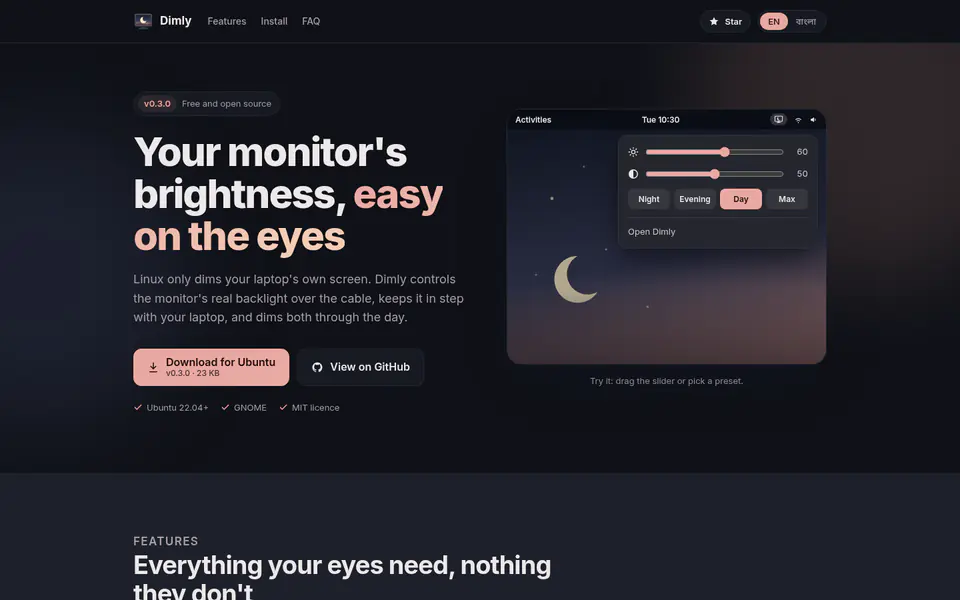
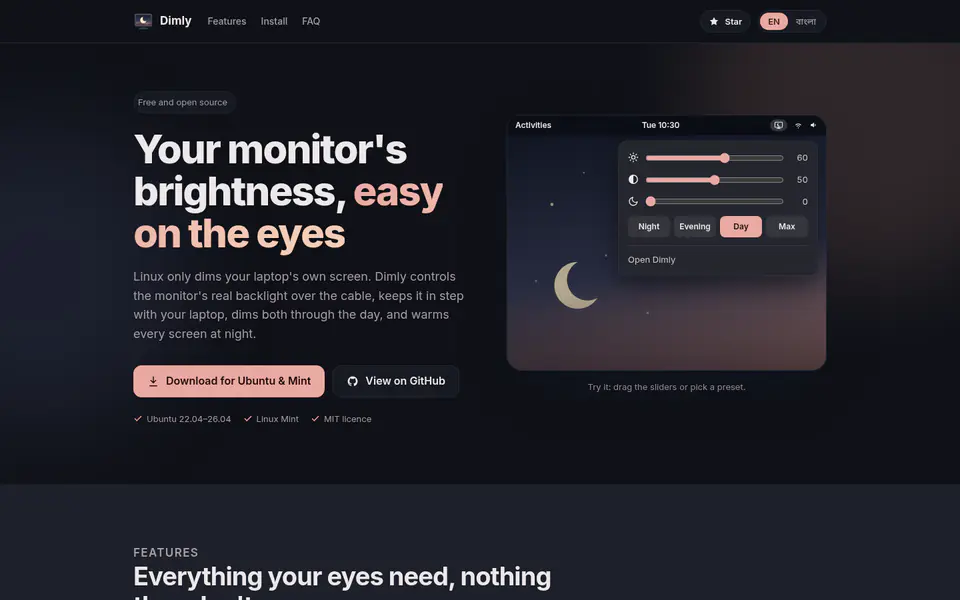
feat(projects): update Dimly for 0.4.0
From the 0.4.0 changelog, README and site: Warmth slider (desktop night
light, sunset to sunrise or all the time); Linux Mint support with a
Cinnamon panel applet (laptop sync and automatic shortcuts not yet on
Cinnamon); top-bar menu on GNOME 42 to 50 (Ubuntu 22.04 to 26.04) with a
choice of position. New light/dark screenshots of the updated hero,
re-encoded at q75. llms.txt updated. Résumé still prints on two pages.

diff --git a/data/projects.ts b/data/projects.ts
@@ -167,15 +167,16 @@ export const projects: Project[] = [
     slug: "dimly",
     name: "Dimly",
     description:
-      "A free Linux app that controls your external monitor's real backlight over the cable, keeps it in step with your laptop screen, and dims both on a schedule. Open source, for GNOME on Ubuntu.",
+      "A free Linux app that controls your external monitor's real backlight over the cable, keeps it in step with your laptop screen, and dims both on a schedule, with a warmth slider for less blue light. Open source, for GNOME on Ubuntu and Linux Mint.",
     overview: [
       "Dimly is a free, open-source (MIT) desktop app for Linux. Linux desktops only dim the laptop's own screen; Dimly controls an external monitor's real backlight over the cable using DDC/CI, so you can stop reaching for the monitor's buttons.",
-      "It keeps every screen at the same level. The laptop's brightness keys change the external monitors too, a schedule switches between Night, Evening, Day and Max presets through the day, and a newly connected monitor joins in at the current level. Brightness, contrast and the presets are also one click away from a Dimly menu in GNOME's top bar, without opening the window.",
-      "It's built with Python, GTK 4 and libadwaita on top of ddcutil, with a small GNOME Shell extension for the top-bar menu and systemd services for the background sync and schedule. It ships as a .deb package for GNOME on Ubuntu 22.04 and later; the window, schedule and sliders also work on other desktops. The website and README are in English and Bangla.",
+      "It keeps every screen at the same level. The laptop's brightness keys change the external monitors too, a schedule switches between Night, Evening, Day and Max presets through the day, and a newly connected monitor joins in at the current level. A Warmth slider cuts blue light on every screen through the desktop's own night light, from sunset to sunrise or all the time. Brightness, contrast, warmth and the presets are also one click away from a Dimly menu in GNOME's top bar or Linux Mint's panel, without opening the window.",
+      "It's built with Python, GTK 4 and libadwaita on top of ddcutil, with a GNOME Shell extension (in versions for both GNOME 42–44 and 45–50) and a Cinnamon applet for the menu, and systemd services for the background sync and schedule. It ships as a .deb package for GNOME 42 to 50 (Ubuntu 22.04 to 26.04) and Linux Mint's Cinnamon, where laptop sync and the automatic shortcuts aren't available yet. The website and README are in English and Bangla.",
     ],
     features: [
       "Brightness and contrast sliders for each monitor, with one-click Night, Evening, Day and Max presets whose levels you can set",
-      "Top-bar menu: brightness, contrast and presets from the Dimly icon in GNOME's top bar",
+      "Warmth slider for less blue light on every screen, using the desktop's own night light, from sunset to sunrise or all the time",
+      "Top-bar menu with brightness, contrast, warmth and presets: in GNOME's top bar (right, next to the clock or left) or Linux Mint's panel",
       "Laptop sync: the laptop's brightness keys change the external monitors too, and the sliders change both",
       "Schedule that switches preset by time of day; a manual change lasts until the next switch",
       "Keyboard shortcuts (Super+F6 brighter, Super+F5 dimmer) and a command line (dimly --up, --down, --set, --preset)",
@@ -183,7 +184,7 @@ export const projects: Project[] = [
       "Factory reset for monitors whose backlight stops responding, keeping brightness and contrast",
       "One-step install from a .deb package, with upgrades that keep your settings, schedule and presets; website and README in English and Bangla",
     ],
-    stack: ["Python", "GTK 4", "libadwaita", "ddcutil (DDC/CI)", "GNOME Shell extension", "systemd", "GitHub Pages"],
+    stack: ["Python", "GTK 4", "libadwaita", "ddcutil (DDC/CI)", "GNOME Shell extension", "Cinnamon applet", "systemd", "GitHub Pages"],
     image: "/images/projects/dimly.webp",
     imageDark: "/images/projects/dimly-dark.webp",
     liveUrl: "https://saikatnjm.github.io/dimly/",
